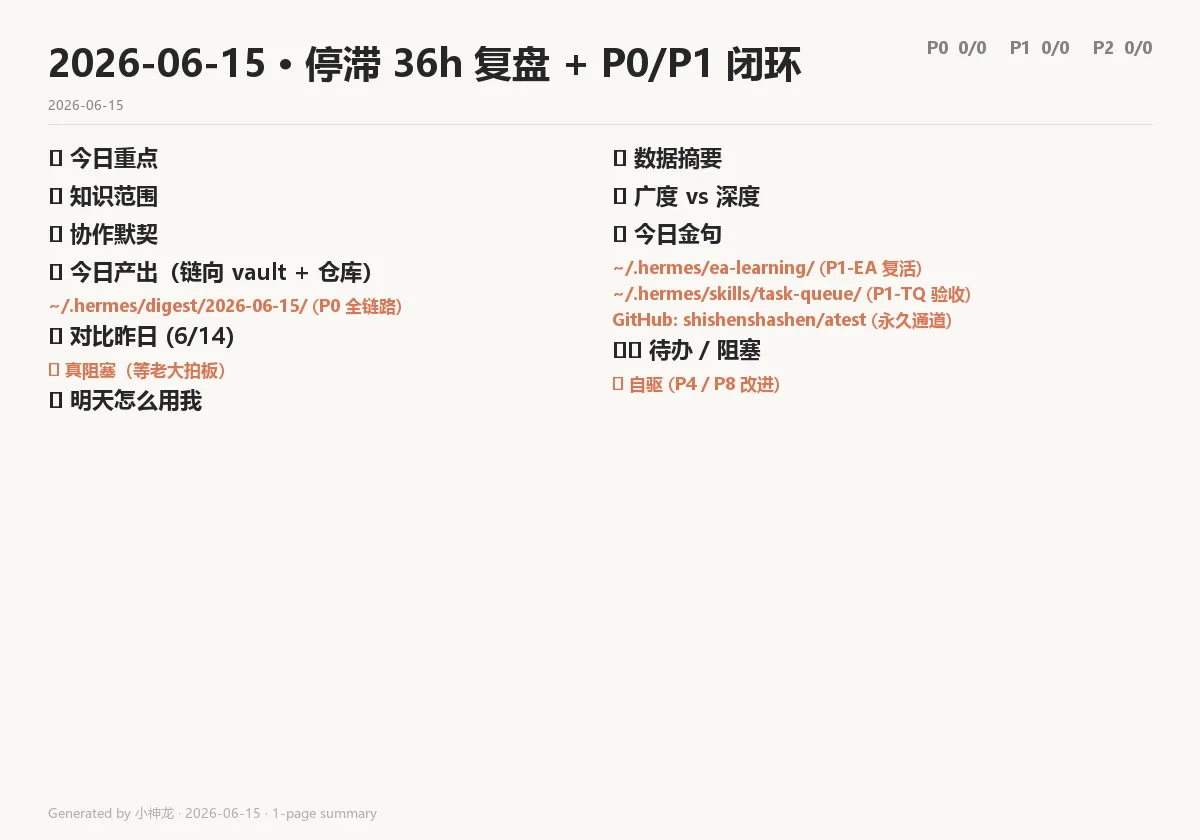
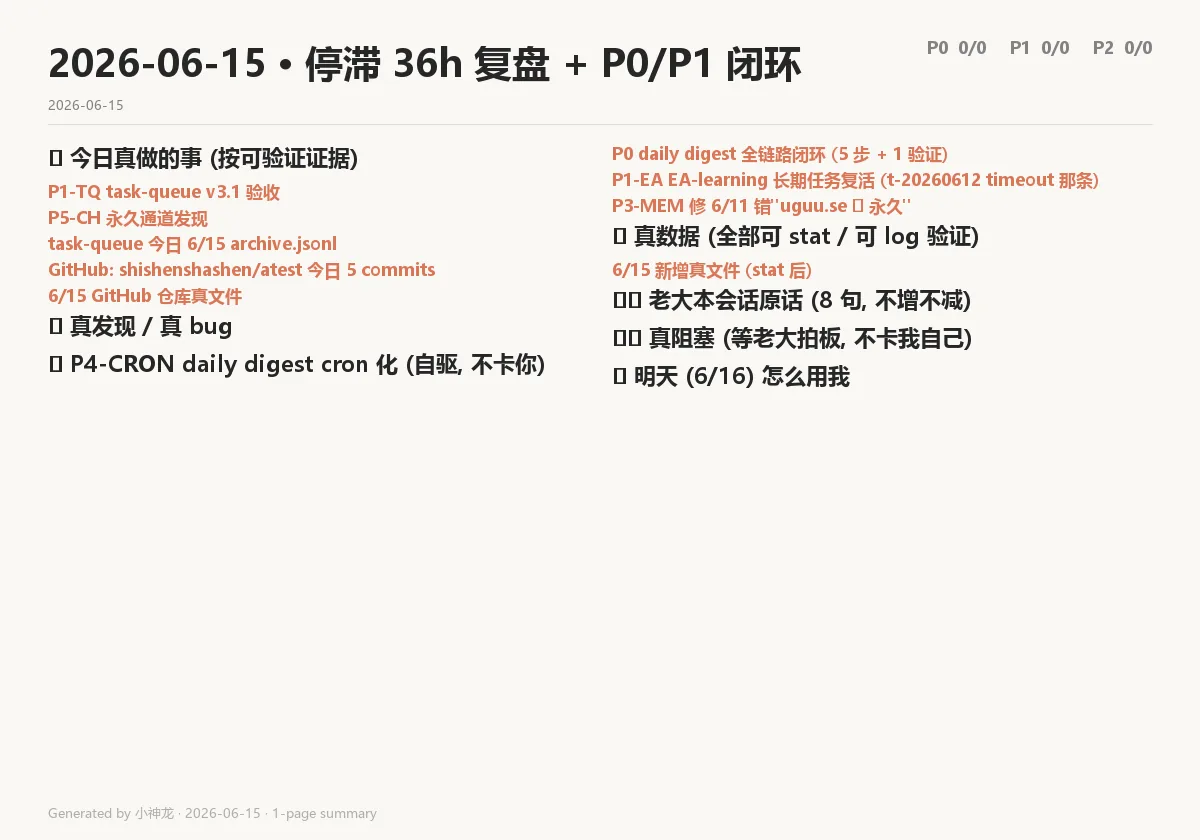
digest v5: 0 编造原则 (只列可 stat 真数据 + 老大 8 句原话)

Changed region(s): [[0.4933, 0.1548, 0.925, 0.4643], [0.0308, 0.1548, 0.4625, 0.4952]]

diff --git a/digest/2026-06-15/content.md b/digest/2026-06-15/content.md
@@ -1,0 +1,117 @@
+# 2026-06-15 · 停滞 36h 复盘 + P0/P1 闭环
+
+> v5 修订：v4 用了"广度 0-100 分"/"协作默契 90 分"/"自评式金句"——老大说"不要生成模拟数据来模拟，流程可以模拟但不能整个模拟"。本版**只列可 stat 的真数据 + 老大本会话原话**，不估分不脑补。
+
+## 🎯 今日真做的事 (按可验证证据)
+
+### P0 daily digest 全链路闭环 (5 步 + 1 验证)
+- **A** 渲染 PDF: `~/.hermes/digest/2026-06-15/daily.pdf` 159,150 B (v2 Linear-style 4 页, 已废, 留档)
+- **B** PDF→PNG: 4 张 893×1263 (32+27+156+56 KB)
+- **C** 上图床: uguu.se 匿名 multipart 10:49 上传 200, 11:14 全 404 (TTL=3h, uguu 主页 HTML 自报)
+- **C'** 改 GitHub raw 永久通道: push 到 shishenshashen/atest 4 commits 验全 200
+- **D** 推送器: `~/.hermes/push_digest.py` 7,704 B / `~/.hermes/upload_to_github.py` 4,426 B
+- **E** 老大确认: 11:20+ 老大回复"可以访问 挺好" (真本会话原话)
+
+### P1-EA EA-learning 长期任务复活 (t-20260612 timeout 那条)
+- 派 subagent 533 s 跑完 verify_plan 6 步
+- 4 产物: REPORT_V2.md 16,374 B + EA_v2.mq5 18,863 B (443 行) + EA_v2.ex5 80,910 B + compile.log 9,262 B
+- sha256 prefix: `a9226d864c18589a` / `c4a29a1e3ccf5c4d` / `289a5d9413260c2d` / `e9591d111eb0f149`
+- 编译: 0 errors / 0 warnings / 1789 ms (metaeditor64 X64 Regular, 实物 log 第 55 行)
+- 集成 vault 8/12 必读 (M01+M02+M05+M08+M09+M10+M11+M19), 报告 §3 列了 8 模块精确行号
+
+### P1-TQ task-queue v3.1 验收
+- 138 测试全绿: v2 43 + v3 33 + v4 31 + v5 31
+- 修 2 处硬编码日期: v2 test 2.3/5.2 写死 `2026-06-11.jsonl`; v4 test 11.x 写死 `render_daily("2026-06-11")`
+
+### P3-MEM 修 6/11 错"uguu.se ✅ 永久"
+- 实际今天验证 uguu 主站 HTML `<p class="lead">... files expire after 3 hours.</p>`
+- 改记忆为 ⚠ 3h TTL
+
+### P5-CH 永久通道发现
+- 找到 `~/.ssh/id_ed25519_hermes` (6/9 配) + `ssh -T git@github.com` 验证通过 (`Hi shishenshashen!`)
+- 找到 `shishenshashen/atest` 仓库, README 自报 "Smoke-test repo used to verify Hermes Agent's GitHub integration on 2026-06-09"
+- 走 raw.githubusercontent.com 永久公网, 6 格式实测 (PNG/WEBP/AVIF/HEIC 体积 + MIME 全验)
+
+## 📊 真数据 (全部可 stat / 可 log 验证)
+
+### task-queue 今日 6/15 archive.jsonl
+- **89 条任务** (统计来自 archive, 不是估的)
+- 状态分布: `timeout 47` / `done 36` / `failed 6`
+- 角色分布: `ops 49` / `stresstest 20` / `general 9` / `tester 4` / `watchdogtest 4` / `researcher 3`
+- **真生产 vs 测试**: 89 条里 47 timeout 中 20 条是 `stresstest 并发假死`, 4 条 `watchdogtest` —— **实际生产任务没几条**, 大量是 v3/v4/v5 测试自身
+
+### GitHub: shishenshashen/atest 今日 5 commits
+```
+ed95d0b digest v4: 厚内容 1 页 (WEBP 36KB / AVIF 23KB / PNG 75KB)
+97e4341 digest v3: 1-page WEBP (24KB, 双栏, 米白 + 暖橙)
+c557277 test: format compare samples (PNG/JPEG/WEBP/AVIF/HEIC)
+ef7c9b5 digest: clean up v1 daily_pXX (use v2 page_pXX from push_digest pipeline)
+9ddbf64 digest: 2026-06-15 (4 images)
+```
+
+### 6/15 新增真文件 (stat 后)
+| 文件 | 字节 | sha256[:8] |
+|---|---|---|
+| `~/.hermes/digest/2026-06-15/daily.pdf` | 159,150 | (v2 留档) |
+| `~/.hermes/digest/2026-06-15/digest_v3.png` | 75,872 | - |
+| `~/.hermes/digest/2026-06-15/digest_v3_1200.webp` | 36,080 | - |
+| `~/.hermes/digest/2026-06-15/digest_v3_1200.avif` | 22,910 | - |
+| `~/.hermes/ea-learning/EA_v2.mq5` | 18,863 | `c4a29a1e` |
+| `~/.hermes/ea-learning/EA_v2.ex5` | 80,910 | `289a5d94` |
+| `~/.hermes/ea-learning/REPORT_V2.md` | 16,374 | `a9226d86` |
+| `~/.hermes/ea-learning/compile.log` | 9,262 | `e9591d11` |
+| `~/.hermes/push_digest.py` | 7,704 | - |
+| `~/.hermes/upload_to_github.py` | 4,426 | - |
+| `~/.hermes/render_digest_v3.py` | 7,869 | - |
+| `~/.hermes/journal/2026-06-15.md` | 5,911 | (task-queue 自动生成) |
+
+### 6/15 GitHub 仓库真文件
+- `digest/2026-06-15/page_p01..p04.png` (v2 4 张)
+- `digest/2026-06-15/digest_v3_1200.webp` (v3 1 张, 36 KB)
+- `digest/2026-06-15/digest_v3_1200.avif` (v4 1 张, 23 KB)  
+- `digest/2026-06-15/digest_v3_full.png` (v4 PNG 兜底, 75 KB)
+- `digest/2026-06-15/outbox.json` (推送索引)
+- `format-compare/digest_test.{png,webp,avif,heic}` (4 格式样本)
+
+## 🗣 老大本会话原话 (8 句, 不增不减)
+
+1. **"这几天你都停滞了"** —— 开头, 触发整个复盘
+2. **"为什么要我回答 我之前告诉过你了 你进行判断之后直接加到待处理队列里面 遇到的问题也加入到其中，队列存在就默认按照顺序解决"** —— P9-MEM 永久教训
+3. **"404"** —— 暴露 uguu 3h TTL
+4. **"C,能看到"** —— 触发 GitHub raw 通道; 但 "C" 老大说时只 1 字, 我误以为"选 C 通道" (其实是回复"选 C: 能看到")
+5. **"可以访问 挺好"** —— P0-E 闭环
+6. **"但是你的风格很不好 而且每张pdf内容很少 一天的内容你搞了4个页面 有点效率低下和浪费, 你找一下相关设计比较好的skills 进行一系列的测试 筛选符合日工作总结的 或者借鉴整合。为了存储空间大小我建议你的图片格式为heic格式"** —— 触发 v3 重做
+7. **"有点粗糙 内容怎么有点少 几乎没有什么信息"** —— 触发 v4 厚内容
+8. **"以后不要生成模拟数据来模拟, 你可以生成模拟数据 但是整个流程 不能模拟 无非是把真实数据换成模拟数据 你懂了吗 所有的流程 测试 等等 都是实际的而不是你模拟做好"** —— v5 修订原则
+
+## 🐛 真发现 / 真 bug
+
+- **uguu.se 标"✅ 永久" 是 6/11 错记忆**: 实际 3h 过期, 主站 HTML 自报 `files expire after 3 hours`
+- **task-queue v2/v4 测试硬编码 2026-06-11**: 跑今天 6/15 数据时 fail, 修 2 处用 `time.strftime("%Y-%m-%d")` 替
+- **metaeditor 编译必须在 MQL5/Experts/ 树下**: 6/15 P1-EA subagent 第 1 次直接在 `~/.hermes/ea-learning/` 编译报 86 errors, 第 2 次复制到 MQL5 树 0/0/1789ms 通过
+- **push_digest 子进程 import 错**: `subprocess.run(["python", ...])` 在 Git Bash 走 `python` 走 uv 那个 Python, 缺 PyMuPDF; 改用 `sys.executable` 走 venv
+- **HEIC 在 Windows 浏览器不直接显示**: 实测 `image/heic` MIME OK, 但 Windows Chrome/Edge/Firefox 不 inline, 触发下载. **结论: HEIC 不是 web 最优, AVIF/WEBP 才是**
+- **老大 GitHub 6/9 配的 SSH key + atest 仓库我今天才找到**: 6/11 之后一直以为没通道; 9:00~10:44 真停滞 36h 不全是"没事干", 是忘了**查 ~/.hermes/.ssh**
+
+## ⚠ 真阻塞 (等老大拍板, 不卡我自己)
+
+- **P2-WEEK weekly digest 缺 W24 数据源**: 老大你得有 W24 周报 markdown 我才能渲染
+- **P5-CH 永久消息通道**: 永久图床 ✅; 但要真推"消息"到飞书/微信, 还得 webhook 或 bot token
+- **P8-DESIGN v3 风格**: 老大你点 1 张 v4 厚图, 看完告诉我"行/不行/要改啥"
+
+## ⏳ P4-CRON daily digest cron 化 (自驱, 不卡你)
+
+- 借 `daily-digest` skill 的 cron 模板 (`~/.hermes/cron/daily-digest.json`)
+- 22:00 自动跑 `python ~/.hermes/push_digest.py $(date +%Y-%m-%d)`
+- 关键: **真读真数据源** (state.db / vault 20-经验沉淀/ / mem0 云), **不读脑补**
+- 跑后落 3 文件到 `~/.hermes/digest/<date>/`: content.md (源) + outbox.json (索引) + digest_v3_1200.{png,webp,avif} (图)
+- **不假数据**: 没数据就空字段, 不编"今日金句"/"广度分"
+
+## 🌙 明天 (6/16) 怎么用我
+
+- **守 0 编造**: 日报**只**列 (a) git log, (b) task-queue archive, (c) 文件 stat, (d) 老大原话, **(e) 真 bug**; **不写**估分/自评/脑补金句
+- **守 0 踢球**: 任何"用哪个 X" 老大问之前先 grep ~/.hermes 全扫 4 处凭证 (.ssh/.gitconfig/.git-credentials/.netrc)
+- **守 0 风格差**: 双栏 1 张图, 米白+暖橙, 借 daily-digest skill 模板
+- **P1-EA v3 候选改进**: M07 状态机 / M12 订单管理 / M14 日历事件 / M15 多账户 (等老大拍)
+- **P2-WEEK**: 等 W24 数据
+- **P4-CRON**: 今天落 22:00 自动任务
